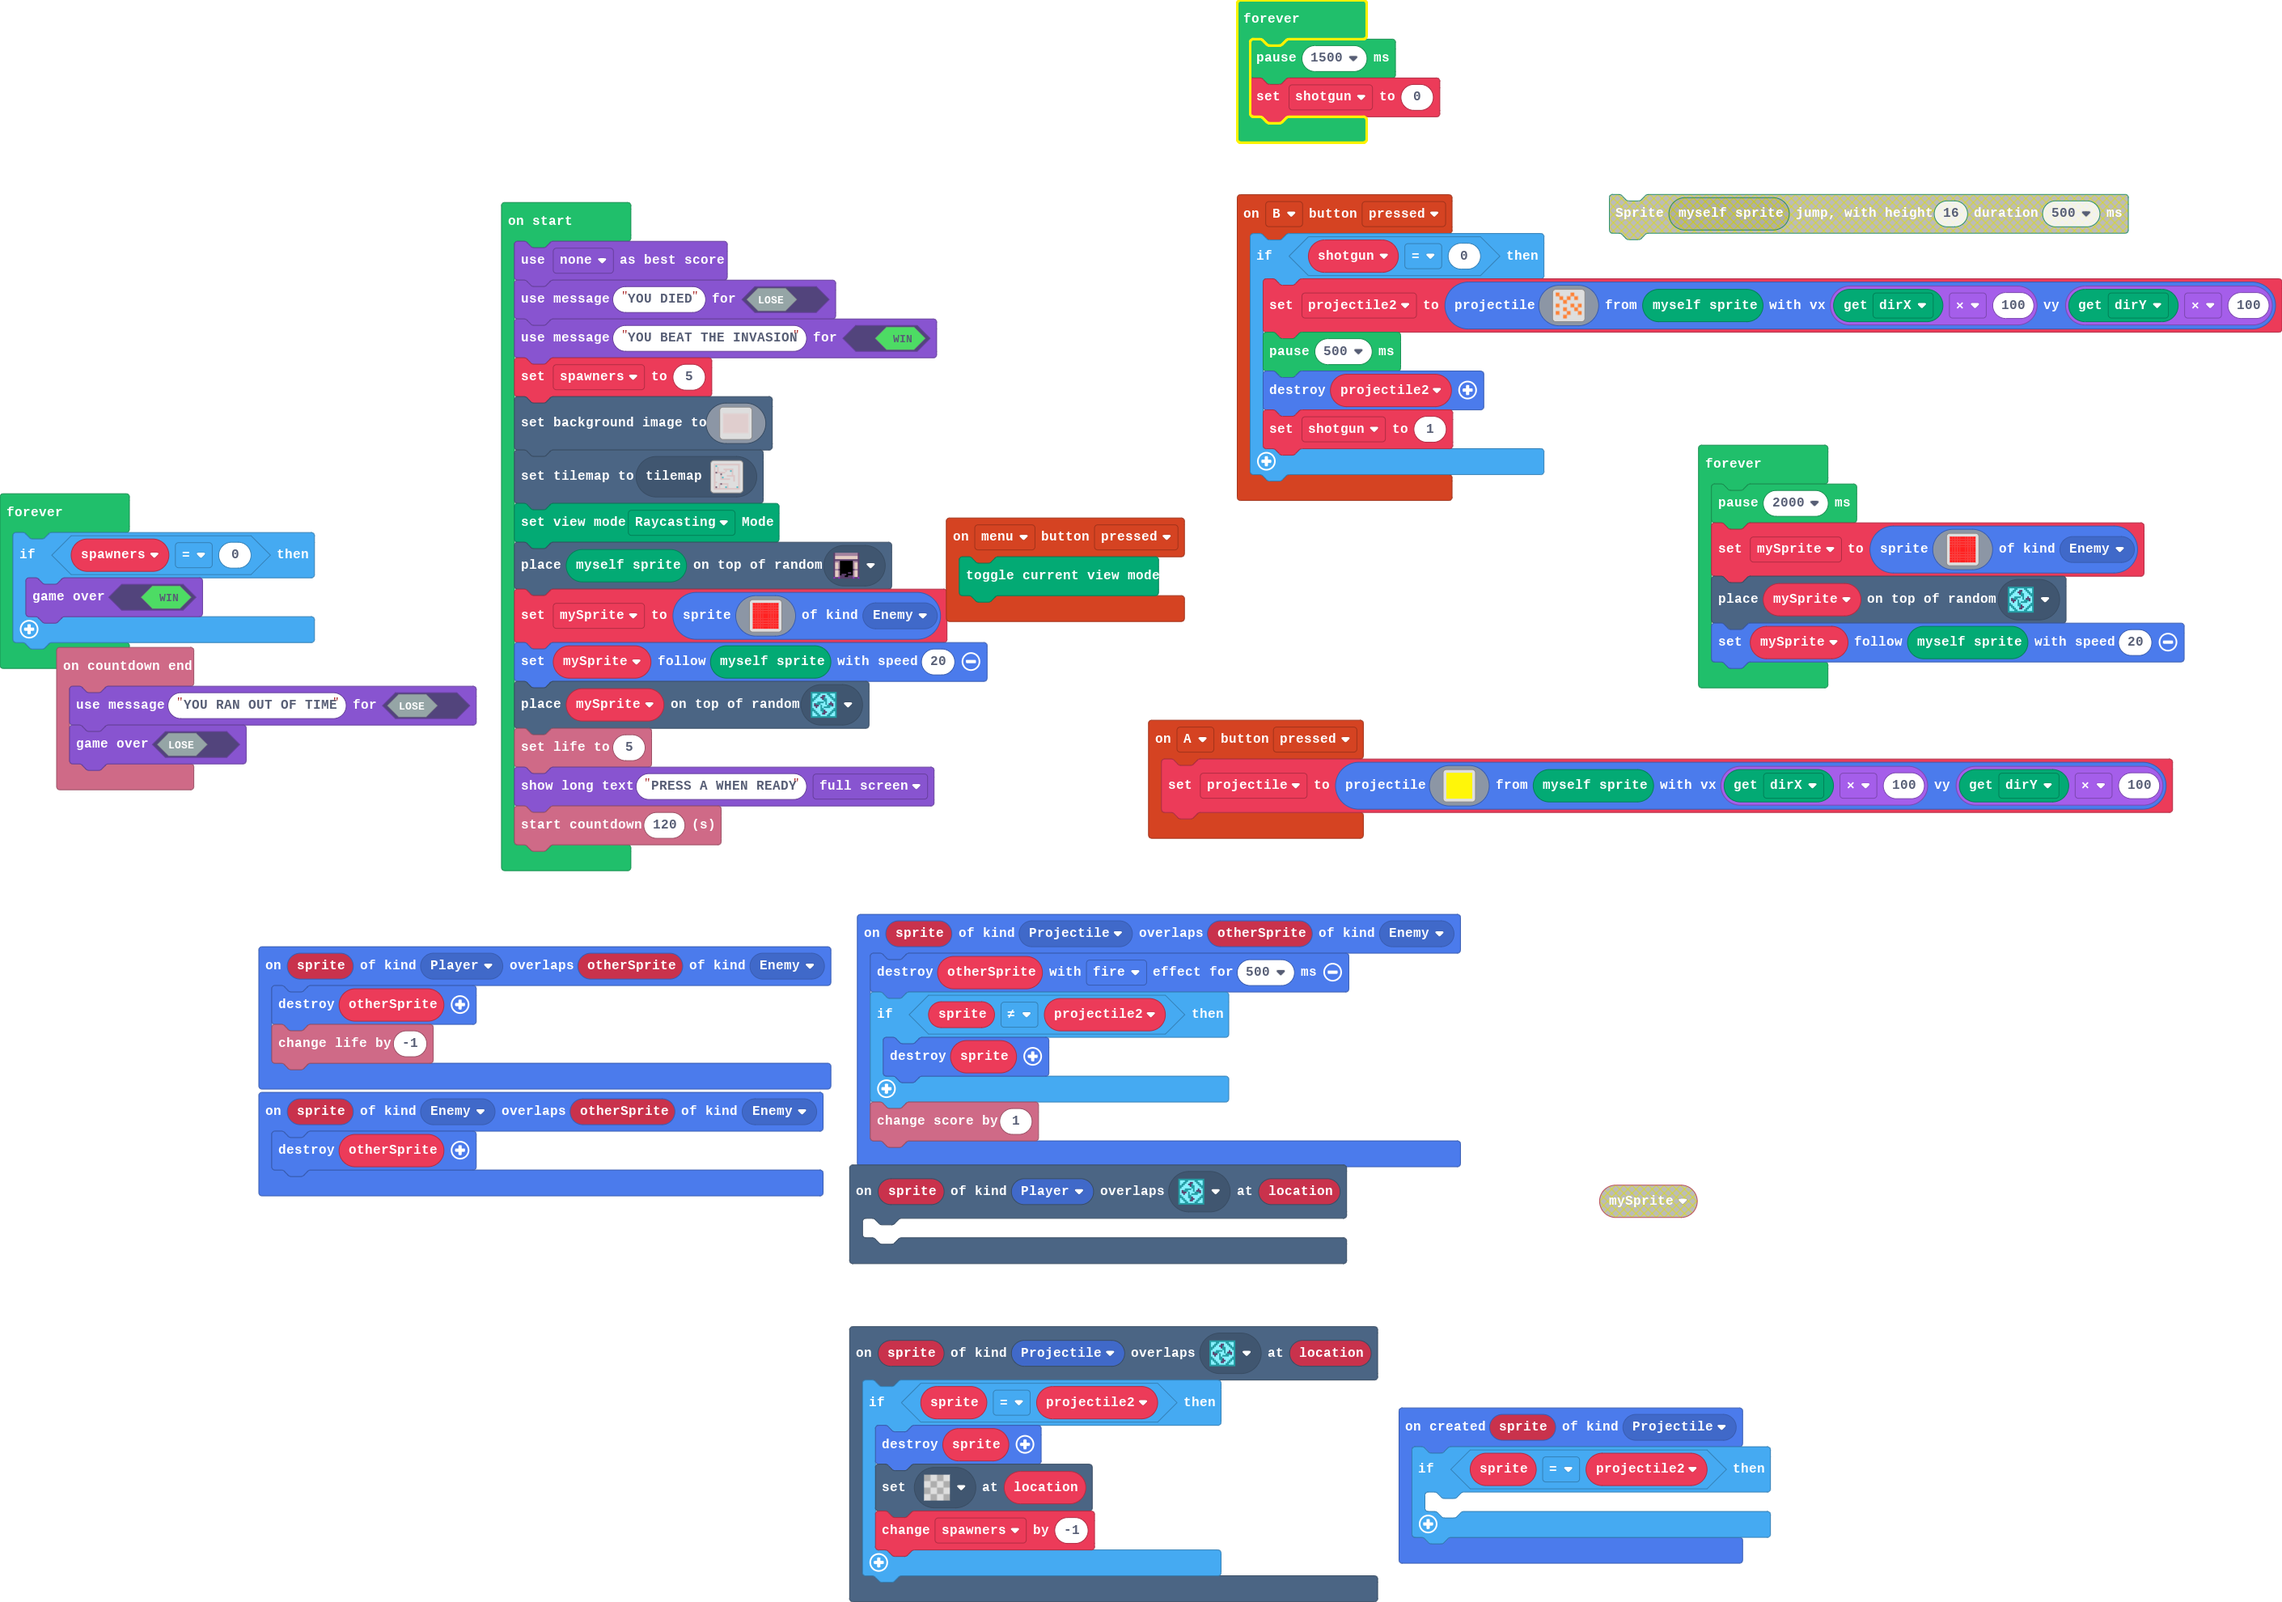
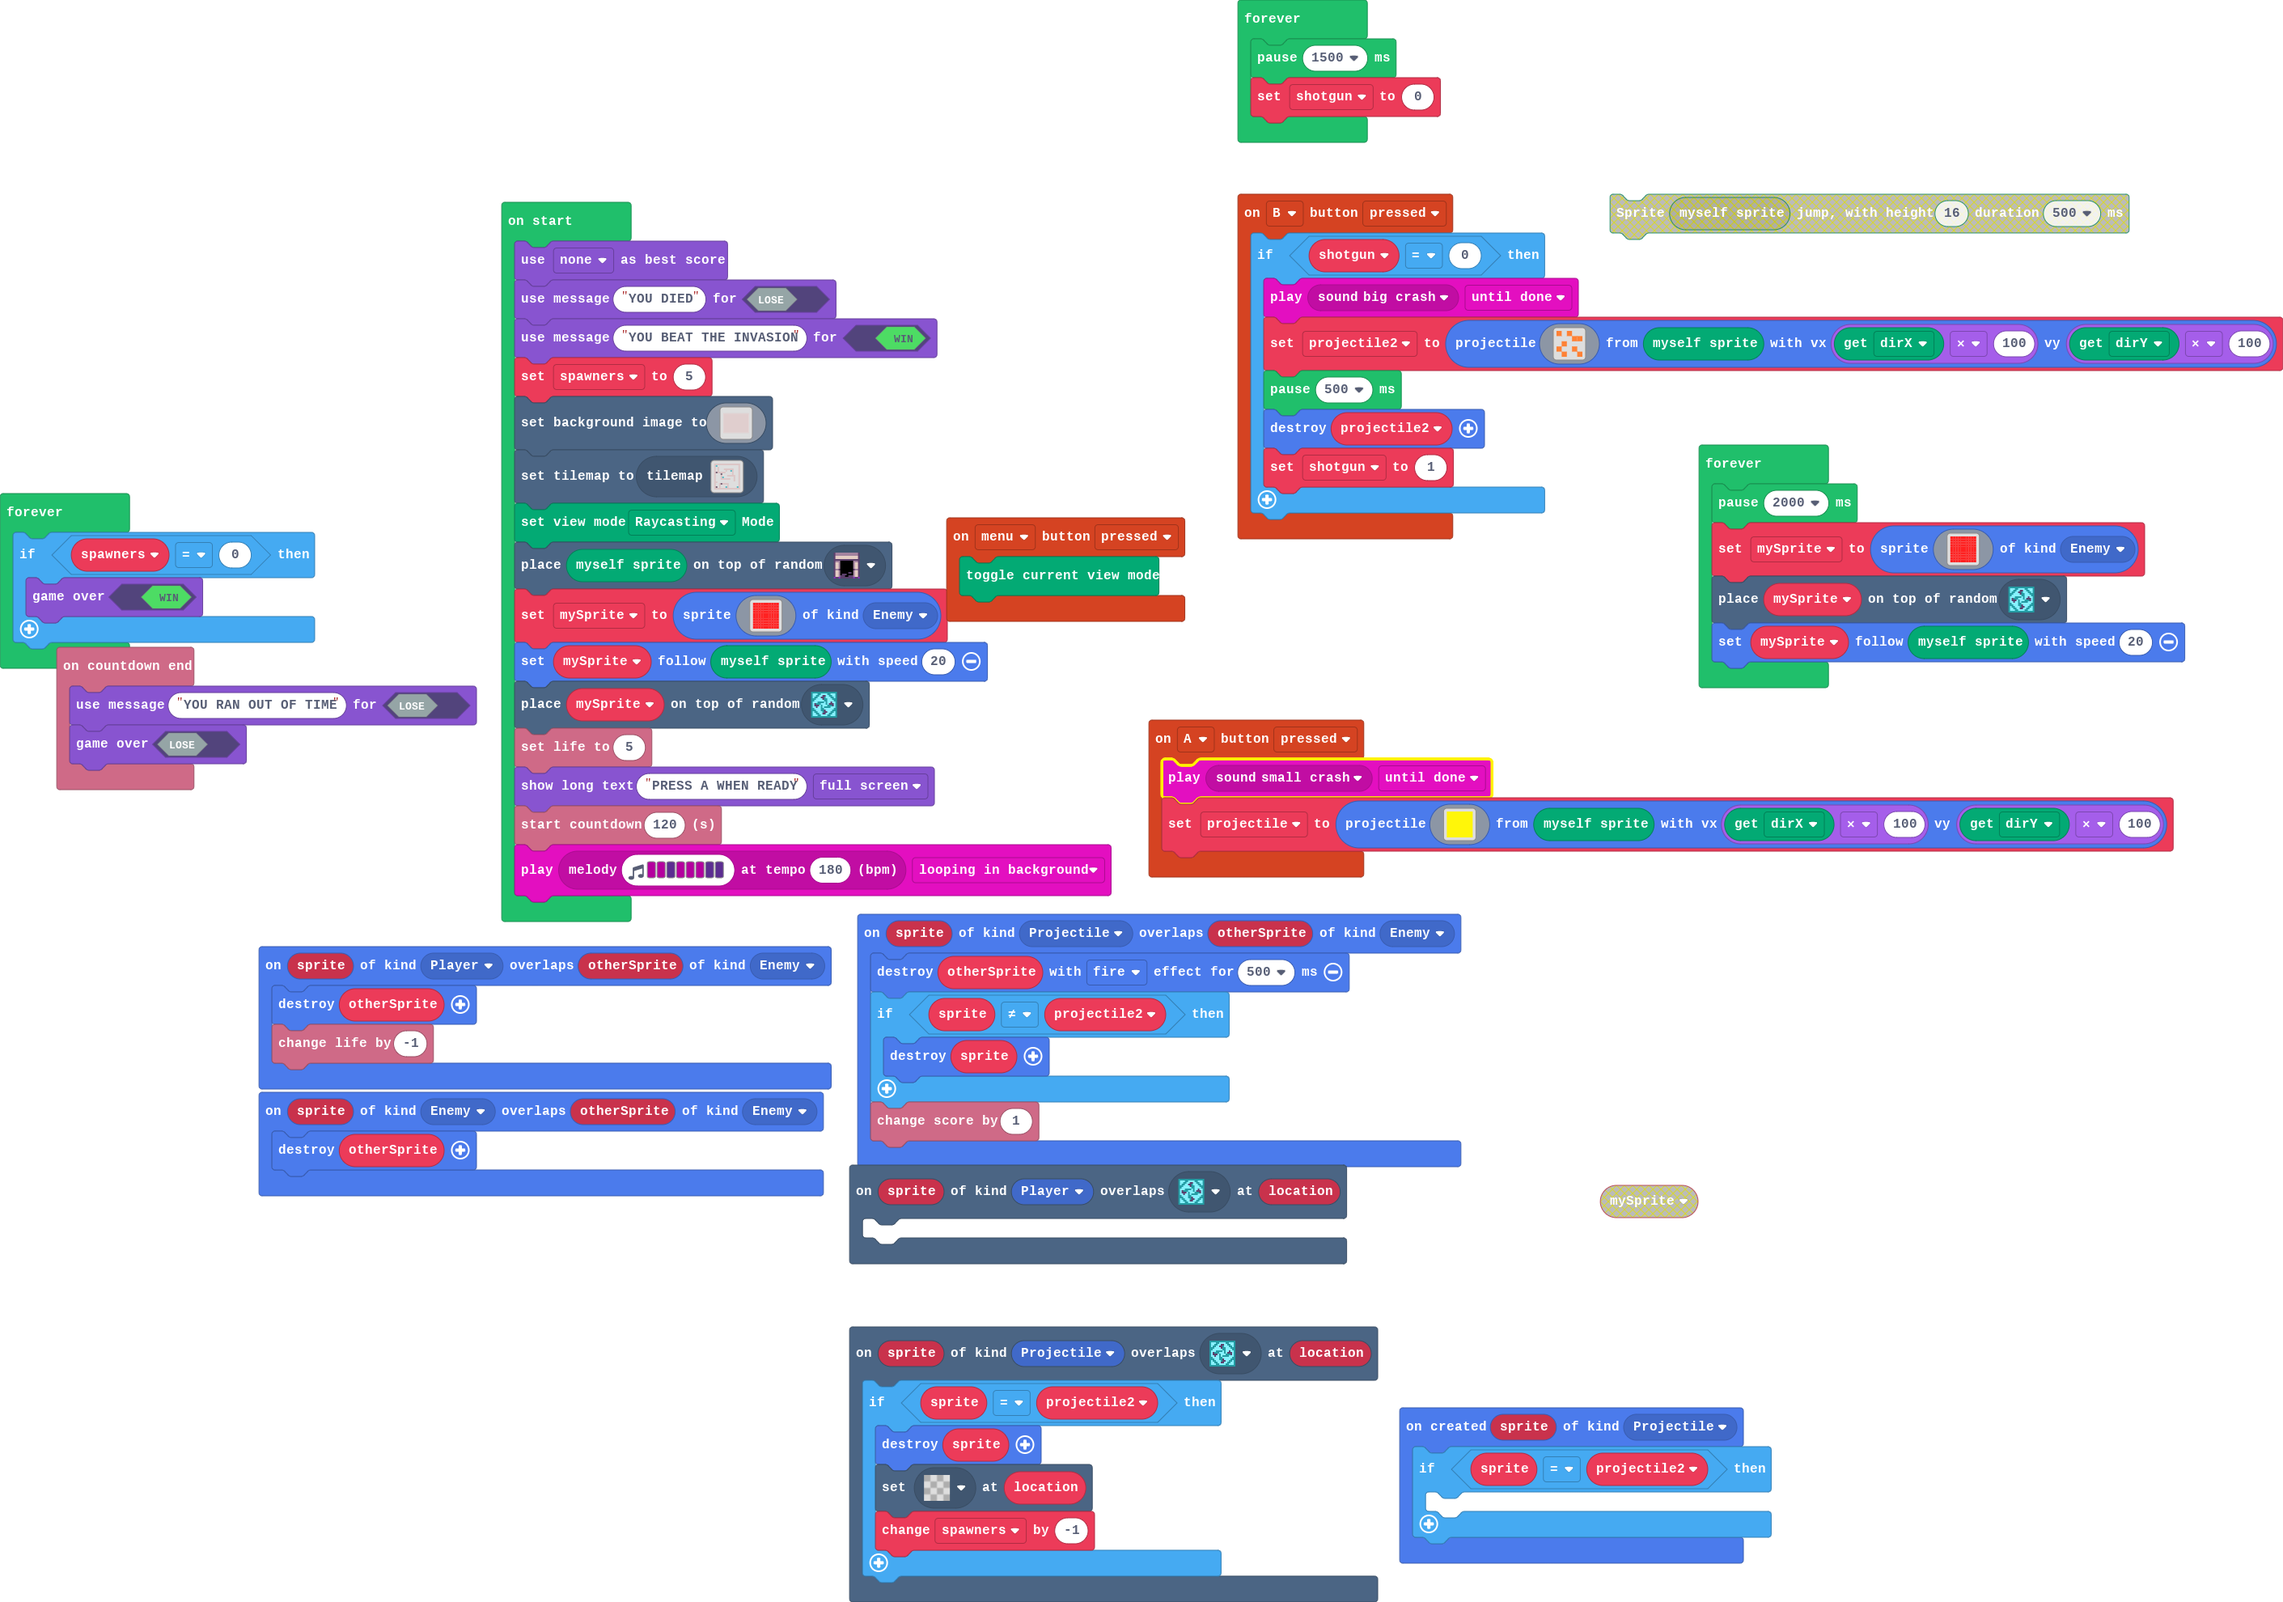
Update main.blocks, main.ts

diff --git a/main.ts b/main.ts
@@ -1,5 +1,6 @@
 controller.B.onEvent(ControllerButtonEvent.Pressed, function () {
     if (shotgun == 0) {
+        music.play(music.melodyPlayable(music.bigCrash), music.PlaybackMode.UntilDone)
         projectile2 = sprites.createProjectileFromSprite(assets.image`shotgun`, Render.getRenderSpriteInstance(), Render.getAttribute(Render.attribute.dirX) * 100, Render.getAttribute(Render.attribute.dirY) * 100)
         pause(500)
         sprites.destroy(projectile2)
@@ -17,6 +18,7 @@ scene.onOverlapTile(SpriteKind.Projectile, assets.tile`myTile`, function (sprite
     }
 })
 controller.A.onEvent(ControllerButtonEvent.Pressed, function () {
+    music.play(music.melodyPlayable(music.smallCrash), music.PlaybackMode.UntilDone)
     projectile = sprites.createProjectileFromSprite(assets.image`Bullet`, Render.getRenderSpriteInstance(), Render.getAttribute(Render.attribute.dirX) * 100, Render.getAttribute(Render.attribute.dirY) * 100)
 })
 sprites.onOverlap(SpriteKind.Enemy, SpriteKind.Enemy, function (sprite, otherSprite) {
@@ -183,6 +185,7 @@ tiles.placeOnRandomTile(mySprite, assets.tile`myTile`)
 info.setLife(5)
 game.showLongText("PRESS A WHEN READY", DialogLayout.Full)
 info.startCountdown(120)
+music.play(music.stringPlayable("C C D C C C D D ", 180), music.PlaybackMode.LoopingInBackground)
 forever(function () {
     pause(1500)
     shotgun = 0
